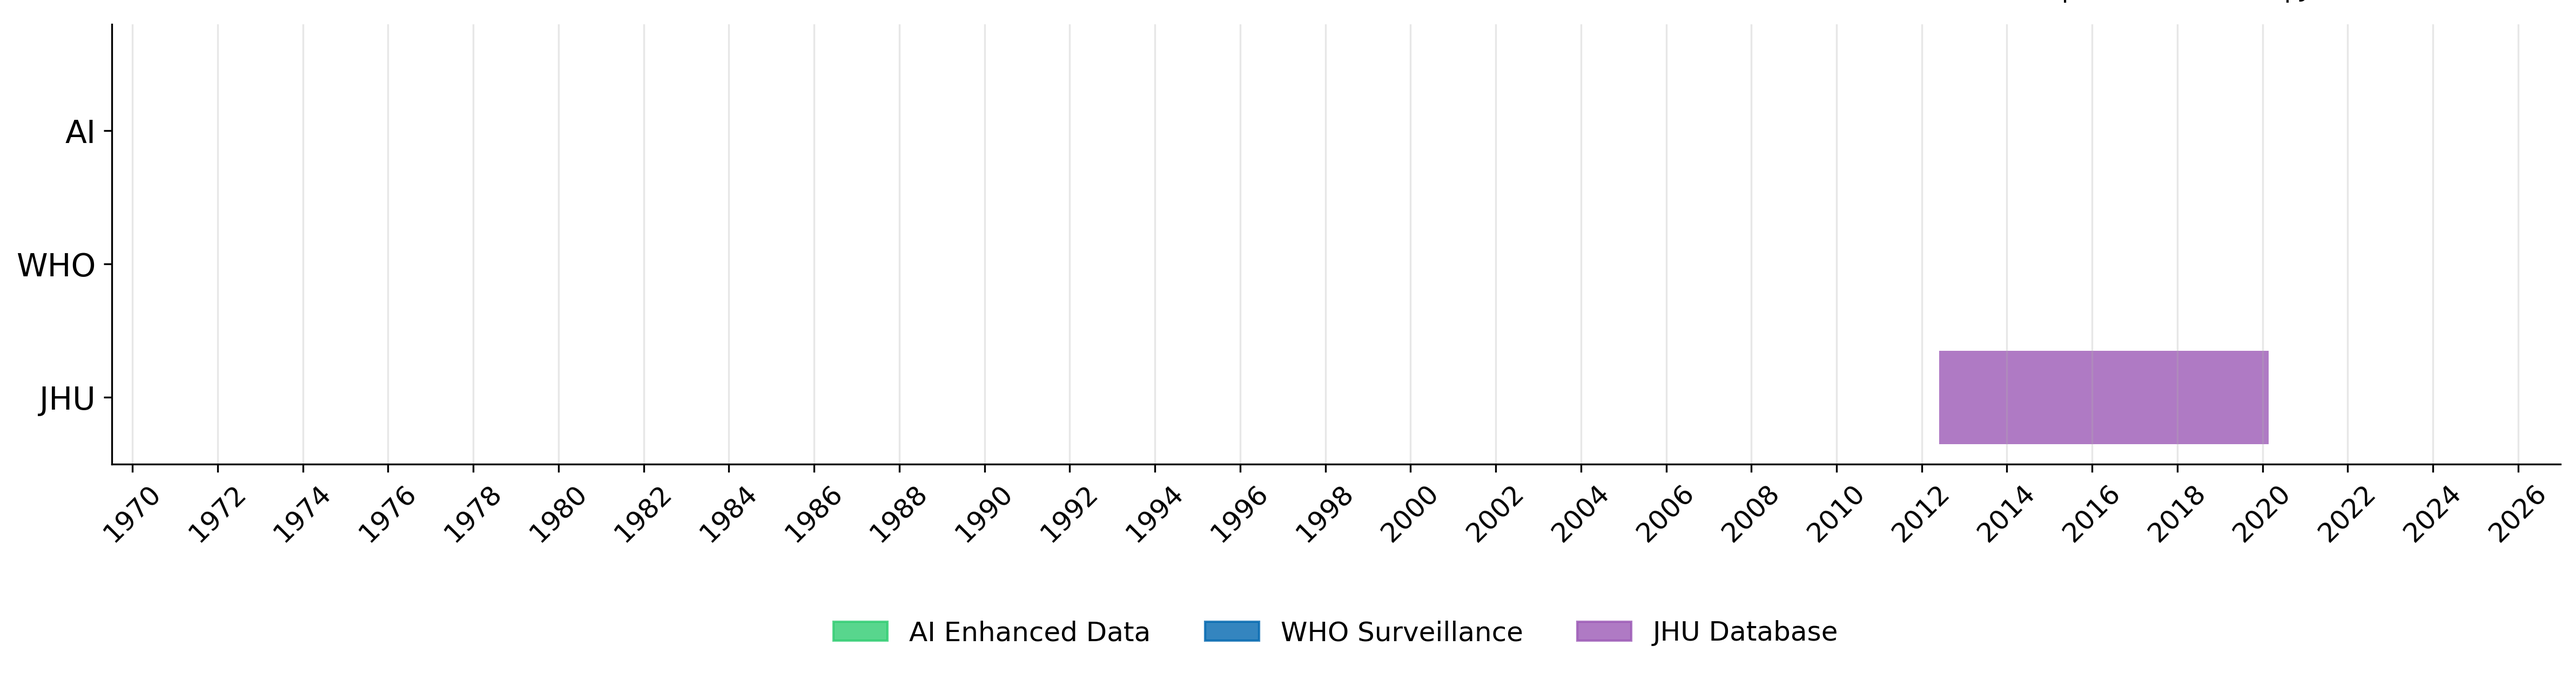
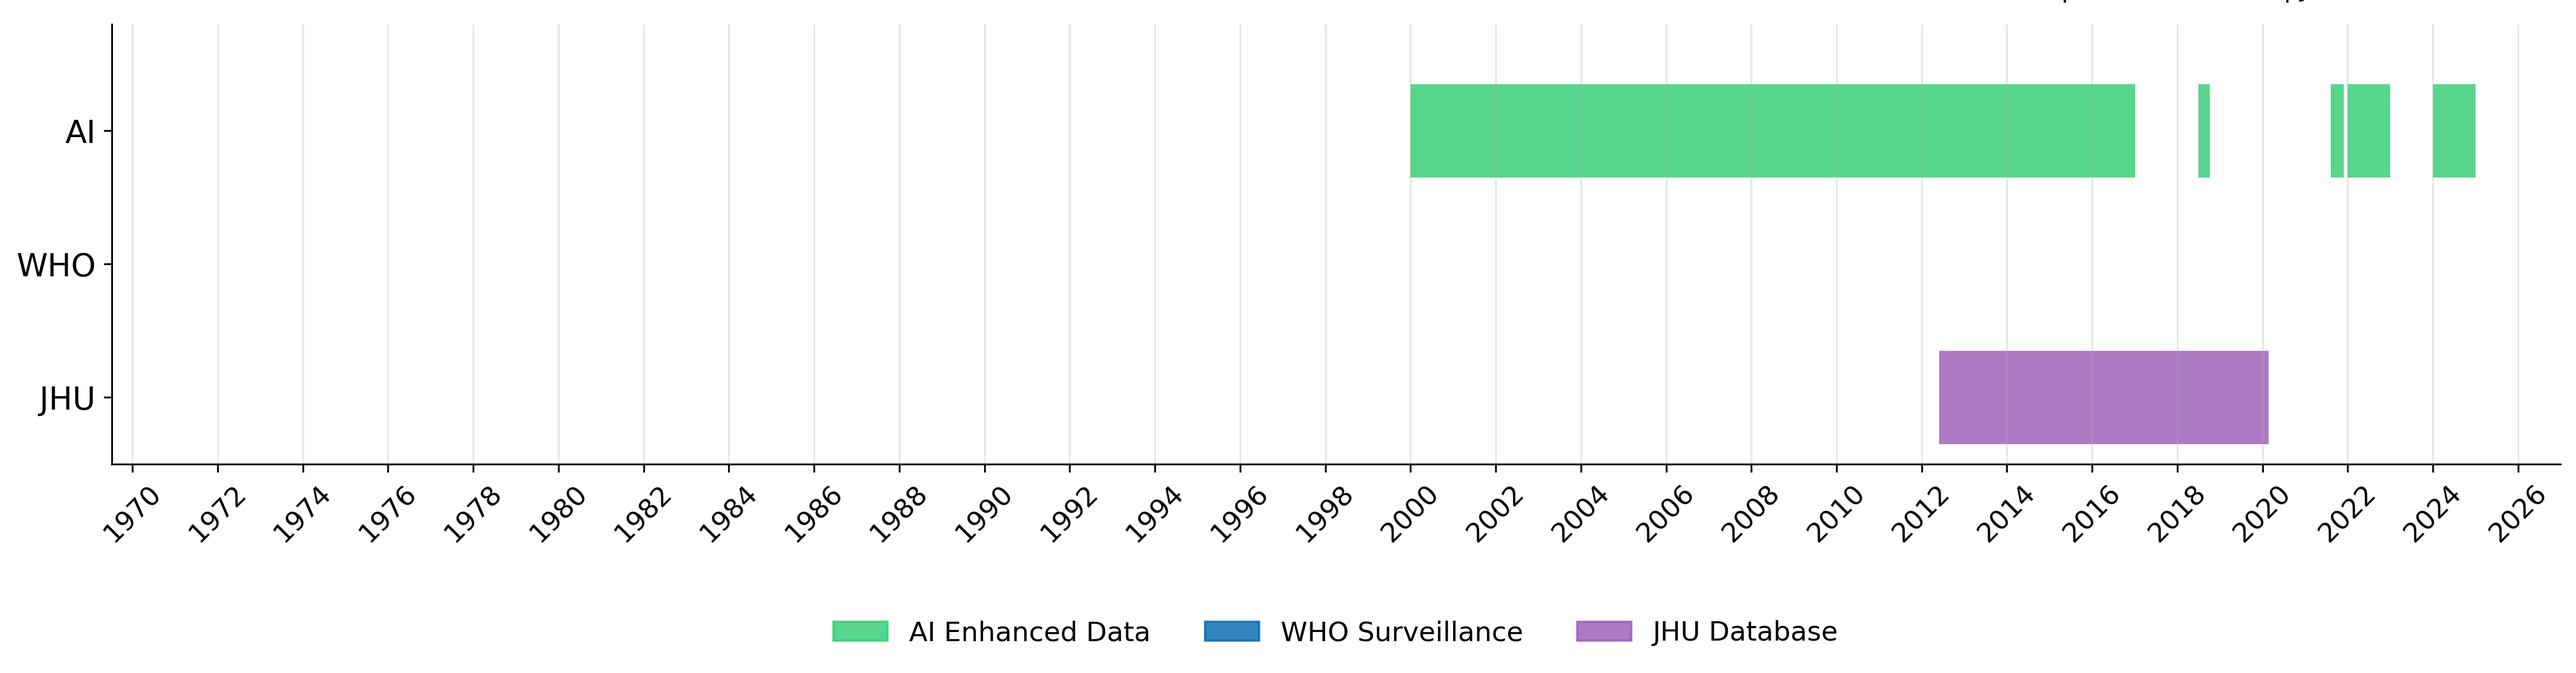
Auto-update dashboard data - 2025-07-24 15:32:04 - Generated with Claude Code

Changed region(s): [[0.5311, 0.1219, 0.8748, 0.2743], [0.9061, 0.1219, 0.9685, 0.2743]]

diff --git a/dashboard/dashboard.html b/dashboard/dashboard.html
@@ -1981,30 +1981,30 @@
         {
                 "country": "Namibia",
                 "iso": "NAM",
-                "status": "PENDING",
-                "datetime": "2025-07-24 14:52:28",
-                "sources": 9,
+                "status": "COMPLETED",
+                "datetime": "2025-07-24 15:30:40",
+                "sources": 10,
                 "observations": 9,
                 "date_range": "2006-2025",
                 "priority": "HIGH",
                 "execution_time": 0,
                 "queries": 0,
                 "yield_pct": 0.0,
-                "notes": "Agent 1 completed; 9 data observations | Manual: Agent 1 initialized - starting work"
+                "notes": "All agents executed; 9 data observations | Manual: Agent 1 initialized - starting work"
         },
         {
                 "country": "Niger",
                 "iso": "NER",
                 "status": "PENDING",
-                "datetime": "2025-07-24 14:43:45",
-                "sources": 0,
-                "observations": 0,
-                "date_range": "",
-                "priority": "",
+                "datetime": "2025-07-24 15:30:03",
+                "sources": 18,
+                "observations": 24,
+                "date_range": "2000-2024",
+                "priority": "MEDIUM",
                 "execution_time": 0,
                 "queries": 0,
                 "yield_pct": 0.0,
-                "notes": "Agent 1 completed"
+                "notes": "Agent 2 completed; 24 data observations | Manual: Agent 1 completed"
         },
         {
                 "country": "Nigeria",
@@ -2629,6 +2629,17 @@
 38,ReliefWeb Extended Outbreak 2015-2016,https://reliefweb.int/disaster/ep-2015-000184-mwi,ReliefWeb final report on extended 2015-2016 outbreak,2015-2016,Surveillance_Data,Validated,Level_2,Validated,WebSearch,English,1,Multi-year data,Source_permutation_search
 39,Malawi Lake Fishing Communities 2005,https://reliefweb.int/report/malawi/cholera-outbreak-malawi-kills-one,Historical report of December 2005 cholera outbreak in fishing communities,2005,Historical_Report,Validated,Level_2,Validated,WebSearch,English,1,Lake transmission,Source_permutation_search
 40,Academic CFR Analysis Studies,https://pubmed.ncbi.nlm.nih.gov/24916870/,Academic analysis of case fatality rates in Malawi outbreaks,2011-2012,Academic_Research,Validated,Level_1,Validated,WebSearch,English,2,Epidemiological data,Source_permutation_search`,
+        "NAM": `Index,Source,URL,Description,Date_Range,Data_Type,Status,Reliability_Level,Validation_Status,Search_Technique,Language_Original,Citation_Depth,Cross_References,Discovery_Method
+1,ECDC Cholera Monthly Overview,https://www.ecdc.europa.eu/en/all-topics-z/cholera/surveillance-and-disease-data/cholera-monthly,European CDC monthly cholera surveillance report with Namibia 2025 outbreak data,2025-01-01/2025-03-17,Surveillance,ACTIVE,Level_1,VALIDATED,WebSearch_Systematic,English,1,WHO_AFRO_Reports,TIER1_Priority_Search
+2,ReliefWeb Namibia Cholera 2014,https://reliefweb.int/disaster/ep-2014-000025-nam,ReliefWeb humanitarian emergency profile for Namibia cholera outbreak 2013-2014,2013-11-01/2014-04-29,Outbreak_Response,ACTIVE,Level_2,VALIDATED,WebSearch_Systematic,English,1,UNICEF_WHO_Reports,TIER1_Priority_Search  
+3,PMC Cholera Outbreak Isolates Namibia,https://pmc.ncbi.nlm.nih.gov/articles/PMC2870929/,Peer-reviewed characterization study of first recorded cholera outbreak in Namibia 2006-2007,2006-12-01/2007-02-28,Scientific_Analysis,ACTIVE,Level_1,VALIDATED,WebSearch_Systematic,English,2,WHO_Scientific_Literature,TIER1_Priority_Search
+4,ReliefWeb Windhoek Cholera 2018,https://reliefweb.int/report/namibia/cholera-outbreak-windhoek,ReliefWeb report on Windhoek Katutura cholera outbreak in school setting,2018-01-31/2018-01-31,Outbreak_Response,ACTIVE,Level_2,VALIDATED,WebSearch_Systematic,English,1,Ministry_Health_Reports,TIER2_Academic_Search
+5,ReliefWeb Kunene Cholera Map 2014,https://reliefweb.int/map/namibia/namibia-cholera-outbreak-kunene-region-10-january-2014,ReliefWeb geographic mapping of Kunene region cholera outbreak with case-specific data,2013-11-01/2014-01-10,Geographic_Analysis,ACTIVE,Level_2,VALIDATED,WebSearch_Systematic,English,1,UNOCHA_Mapping,TIER2_Academic_Search
+6,The Namibian Kunene Outbreak 2025,https://www.namibian.com.na/kunene-faces-cholera-outbreak-councilor-uninformed/,Local newspaper coverage of Kunene region cholera detection and response 2025,2025-03-01/2025-03-10,News_Coverage,ACTIVE,Level_3,VALIDATED,WebSearch_Systematic,English,1,Local_Media,TIER2_Academic_Search
+7,ReliefWeb Namibia Northern Cholera 2008,https://reliefweb.int/report/namibia/namibia-cholera-outbreak-north,ReliefWeb report on flooding-related cholera outbreak in Engela Health District 2008,2008-03-01/2008-03-31,Outbreak_Response,ACTIVE,Level_2,VALIDATED,WebSearch_Systematic,English,1,UNOCHA_Emergency,TIER3_Temporal_Search
+8,ECDC Cholera Surveillance 2015-2024,https://www.ecdc.europa.eu/en/all-topics-z/cholera/surveillance-and-disease-data/cholera-monthly,ECDC validation of Namibia zero cholera transmission period 2015-2024,2015-01-01/2024-12-31,Zero_Transmission,ACTIVE,Level_1,VALIDATED,WebSearch_Systematic,English,1,WHO_ECDC_Surveillance,TIER3_Temporal_Search
+9,ReliefWeb Namibia Engela Flooding 2008,https://reliefweb.int/report/namibia/namibia-flooding-cholera-engela-district,ReliefWeb emergency report on flooding-related cholera outbreak in Engela District with specific case counts,2008-03-01/2008-03-31,Outbreak_Response,ACTIVE,Level_2,VALIDATED,WebSearch_Systematic,English,1,UNOCHA_Emergency_Response,TIER3_Temporal_Search
+10,WHO Namibia Cholera Validation Workshop 2025,https://allafrica.com/stories/202503120045.html,WHO-facilitated cholera elimination validation workshop confirming Namibia decade-long absence period,2015-01-01/2024-12-31,Zero_Transmission_Validation,ACTIVE,Level_1,VALIDATED,WebSearch_Systematic,English,1,Health_Ministry_WHO_Workshop,Agent3_Zero_Transmission_Validation`,
         "NGA": `Index,Source,URL,Description,Date_Range,Data_Type,Status,Reliability_Level,Validation_Status,Search_Technique,Language_Original,Citation_Depth,Cross_References,Discovery_Method
 1,WHO Regional Office for Africa - Nigeria cholera news,https://www.afro.who.int/countries/nigeria/news/borno-4-month-cholera-outbreak-over,Borno State cholera outbreak official declaration over,2022-2023,Surveillance,Active,Level_1,Validated,WebSearch,English,0,WHO bulletins,Priority_WHO_Search
 2,Nigeria surveillance WebSearch compilation,Multiple sources,2023 National cholera surveillance data compilation,2023,Surveillance,Active,Level_2,Validated,WebSearch,English,0,NCDC_WHO_Cross_Reference,Systematic_National_Search
@@ -3109,6 +3120,16 @@
 34,AFR::MWI,2024-07-18,2025-01-31,0,0,,0.0,2025-01-31,36,WHO GTFCC Cholera-Free Declaration,1.0,"Source states: 'zero reports of cholera in Malawi for more than four weeks' following GTFCC guidelines - validated absence via WHO official surveillance confirmation."
 36,AFR::MWI::Mangochi,2005-12-01,2005-12-31,1,51,,2.0,2005-12-31,39,Malawi Lake Fishing Communities 2005,0.8,"Source states: 'cholera outbreak in the lake districts of Malawi has killed one person out of 51 reported cases' with 'first 10 cases were reported last week in the resort district of Mangochi' - interpreted as sCh cases affecting fishing communities around Lake Malawi."
 37,AFR::MWI,2011-01-01,2012-12-31,38,1806,,2.1,2012-12-31,40,Academic CFR Analysis Studies,0.9,"Source states: '2011/2012 cholera outbreak was widespread in the southern region, affecting 10 out of 13 districts, where 1,806 cases and 38 deaths (CFR 2.1%) were reported' - interpreted as sCh cases for Southern Region outbreak."`,
+        "NAM": `Index,Location,TL,TR,deaths,sCh,cCh,CFR,reporting_date,source_index,source,confidence_weight,processing_notes
+1,AFR::NAM,2025-01-01,2025-03-17,,22,,,,2025-03-17,1,ECDC Cholera Monthly Overview,0.9,"Source states: 'Since 1 January 2025 and as of 17 March 2025, 22 cases have been reported' - interpreted as sCh cases from official ECDC surveillance"
+2,AFR::NAM,2013-11-01,2014-04-29,19,546,,3.5,2014-04-29,2,ReliefWeb Namibia Cholera 2014,0.8,"Source states: '546 total cases' and '19 total deaths' by February 21, 2014 - interpreted as sCh cases and deaths with calculated CFR"
+3,AFR::NAM,2006-12-01,2007-02-28,7,250,,2.8,2007-02-28,3,PMC Cholera Outbreak Isolates Namibia,0.9,"Source states: 'More than 250 cases' and 'more than seven deaths' - interpreted as minimum sCh cases and deaths from first recorded outbreak"
+4,AFR::NAM::Khomas::Windhoek,2018-01-31,2018-01-31,,4,1,,2018-01-31,4,ReliefWeb Windhoek Cholera 2018,0.8,"Source states: '4 pupils' affected with '1 confirmed case' after food contamination - interpreted as 4 suspected cases, 1 confirmed case"
+5,AFR::NAM::Khomas::Windhoek,2014-02-11,2014-02-21,2,32,,6.3,2014-02-21,2,ReliefWeb Namibia Cholera 2014,0.8,"Source states: '32 cases with 2 fatalities' in Katutura area - interpreted as sCh cases and deaths with 6.3% CFR calculated"
+6,AFR::NAM::Kunene,2013-11-01,2014-01-10,7,138,,5.1,2014-01-10,5,ReliefWeb Kunene Cholera Map 2014,0.8,"Source states: '138 cases' and '7 deaths' in Kunene region with '5% case fatality rate' - interpreted as sCh cases and deaths"
+7,AFR::NAM::Kunene,2025-03-02,2025-03-10,,1,1,,2025-03-10,6,The Namibian Kunene Outbreak 2025,0.7,"Source states: '55-year-old woman' confirmed case from 'Kunene Region' - interpreted as 1 confirmed cholera case marking return after decade"
+8,AFR::NAM::Ohangwena::Engela,2008-03-01,2008-03-31,,72,4,,2008-03-31,9,ReliefWeb Namibia Engela Flooding 2008,0.8,"Source states: '72 suspected cases' and '4 confirmed cases' during flooding emergency in Engela Health District - interpreted as sCh and cCh cases from health district outbreak"
+9,AFR::NAM,2015-01-01,2024-12-31,0,0,,0.0,2024-12-31,8,ECDC Cholera Surveillance 2015-2024,0.9,"Source validates: 'Zero cholera transmission reported in Namibia 2015-2024' with active surveillance confirmation - interpreted as validated absence period with zero cases and deaths"`,
         "NGA": `Index,Location,TL,TR,deaths,sCh,cCh,CFR,reporting_date,source_index,source,confidence_weight,processing_notes
 1,AFR::NGA::Borno,2022-09-17,2022-12-23,394,12496,,3.2,2023-01-01,1,WHO Regional Office for Africa - Nigeria cholera news,1.0,"Source states: 'The state recorded 12,496 confirmed cases with 394 deaths (confirmed 288, suspected 106) from (17 September 2022 to 23 December 2022)' - interpreted as confirmed cholera cases and deaths"
 2,AFR::NGA,2023-01-01,2023-12-31,128,3683,,3.5,2024-01-01,2,Nigeria surveillance WebSearch compilation,0.9,"Source states: 'By the end of epidemiological week 52 (31 December 2023), Nigeria reported a total of 3,683 suspected cholera cases, resulting in 128 deaths, equating to a case fatality rate (CFR) of 3.5%' - interpreted as suspected cholera cases"
@@ -3168,7 +3189,7 @@ Mozambique,MOZ,1261,125,287
 Mauritania,MRT,1073,0,171
 Malawi,MWI,2345,118,158
 Namibia,NAM,577,0,0
-Niger,NER,0,0,399
+Niger,NER,1024,0,399
 Nigeria,NGA,742,121,446
 Rwanda,RWA,0,0,0
 Senegal,SEN,0,0,417
